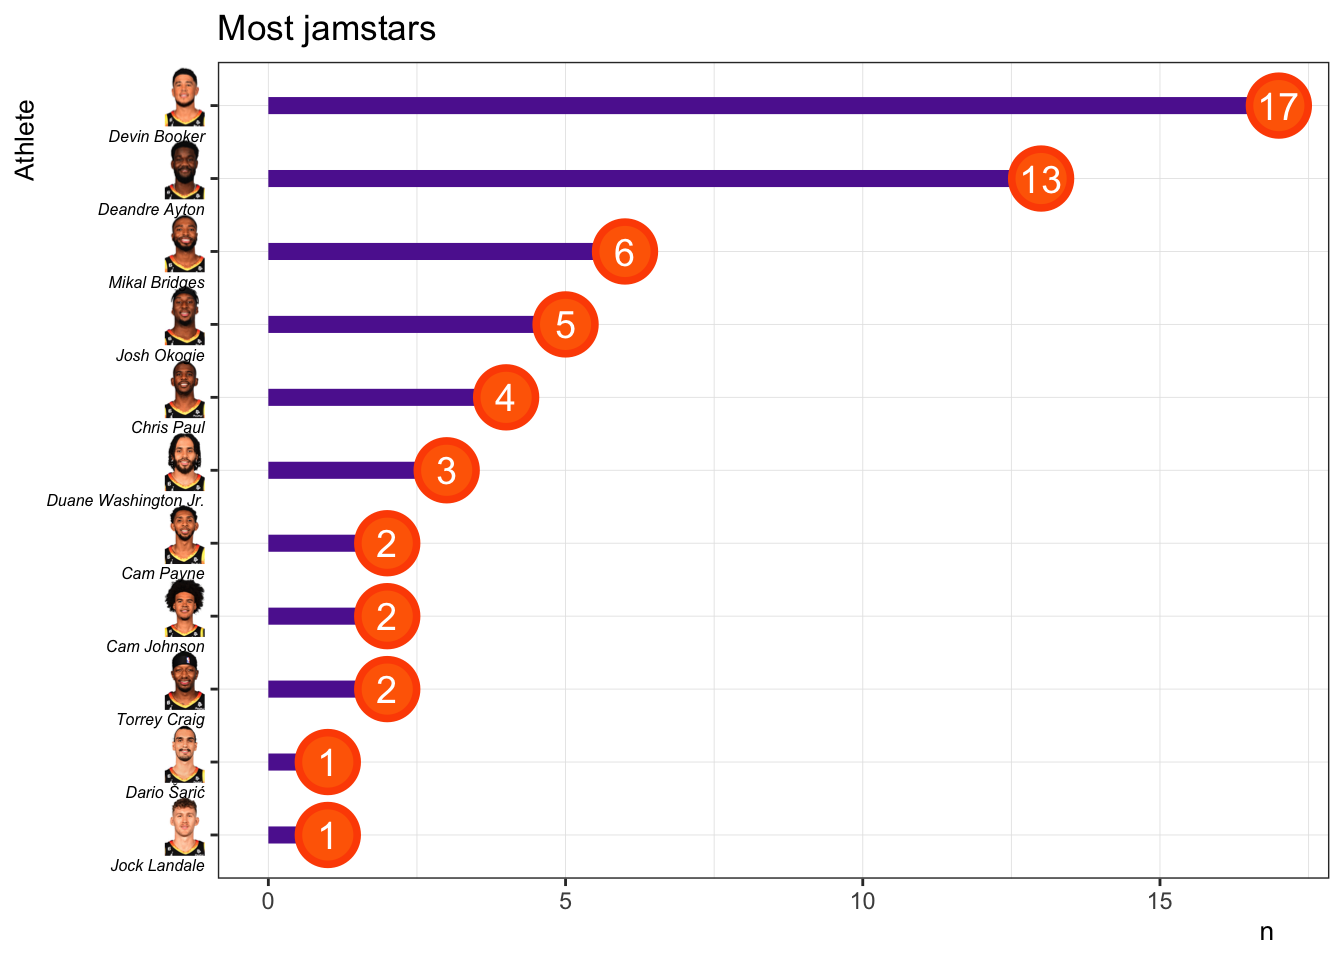
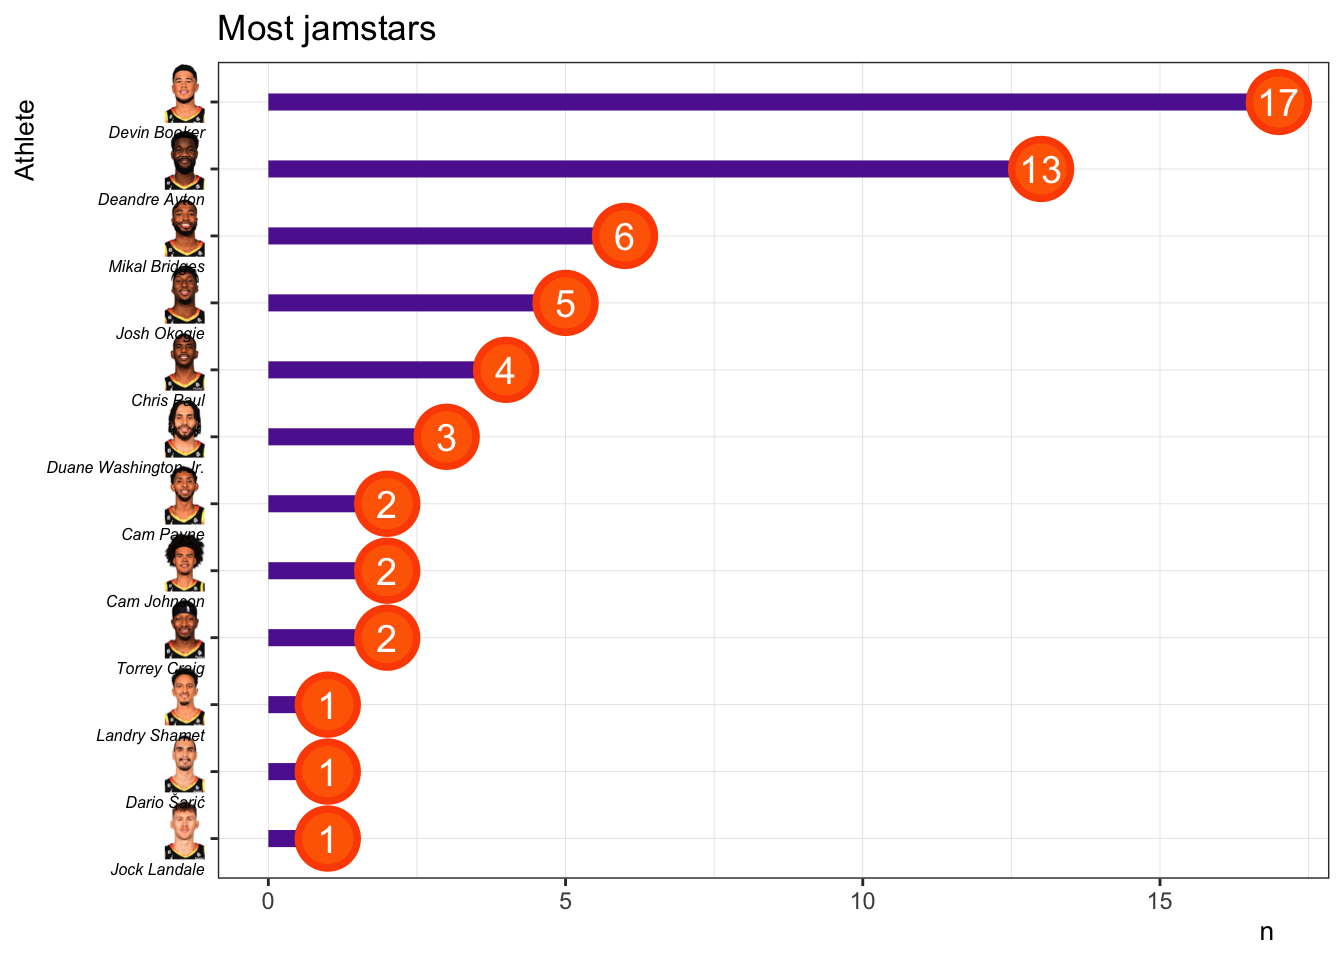
game 32

Changed region(s): [[0.1875, 0.0625, 0.9688, 0.9062], [0.0312, 0.0625, 0.1562, 0.9062]]

diff --git a/index.html b/index.html
@@ -63,7 +63,7 @@ ul.task-list li input[type="checkbox"] {
 
 </header>
 
-<p>Last update: 2022-12-20</p>
+<p>Last update: 2022-12-21</p>
 <div class="cell" data-layout-align="center">
 
 </div>
@@ -94,14 +94,15 @@ ul.task-list li input[type="checkbox"] {
 <section id="misc." class="level2">
 <h2 class="anchored" data-anchor-id="misc.">Misc.</h2>
 <ul>
-<li>Data come from a total of 31 games.</li>
-<li>There are 5 abnormalities
+<li>Data come from a total of 32 games.</li>
+<li>There are 6 abnormalities
 <ul>
 <li>On 2022-11-5, 2022-11-7, 2022-11-11 there was no jamstar</li>
 <li>Reasons (from <code>notes</code>): No Voita, forgot?, Distracted talking about batman</li>
 </ul></li>
 <li>On 2022-11-26 Lissy was gone</li>
 <li>On 2022-11-30 Lissy gave two jamstars</li>
+<li>On 2022-12-20 Voita was gone</li>
 </ul>
 </section>
 <section id="data" class="level2">
@@ -410,6 +411,15 @@ ul.task-list li input[type="checkbox"] {
    <td style="text-align:left;"> Chris Paul </td>
    <td style="text-align:left;"> w </td>
    <td style="text-align:left;"> NA </td>
+  </tr>
+  <tr>
+   <td style="text-align:left;"> 2022-12-20 </td>
+   <td style="text-align:left;"> Wizards </td>
+   <td style="text-align:left;"> Lissy </td>
+   <td style="text-align:left;"> NA </td>
+   <td style="text-align:left;"> Landry Shamet </td>
+   <td style="text-align:left;"> l </td>
+   <td style="text-align:left;"> No voita </td>
   </tr>
 </tbody>
 </table>
